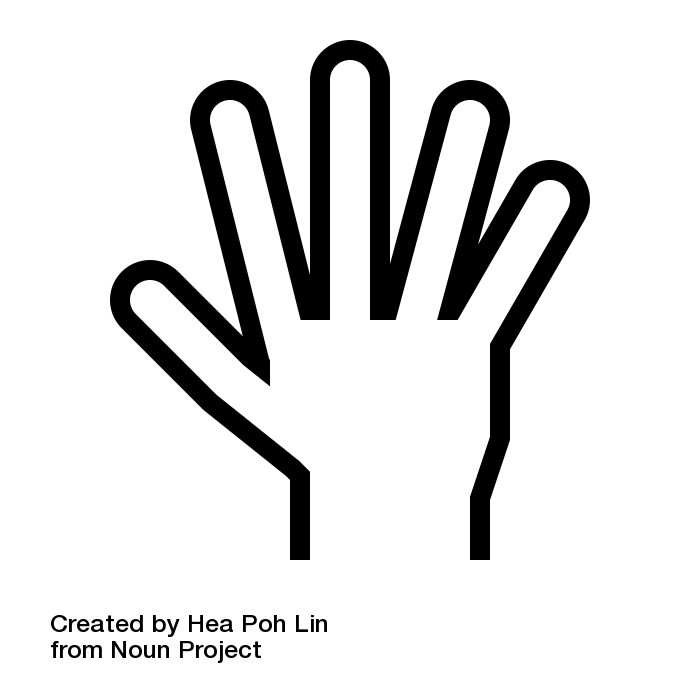
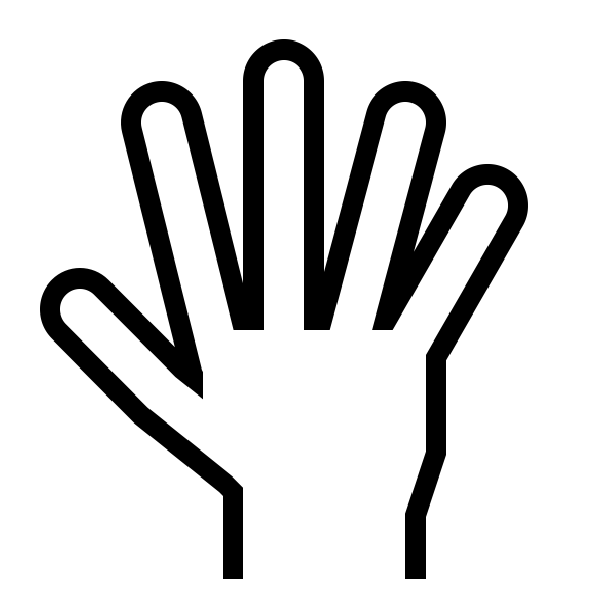
Removed watermarks from images

Changed region(s): [[0.06, 0.06, 0.9, 0.99]]

diff --git a/fingers.css b/fingers.css
@@ -1,7 +1,6 @@
 
 body {
-	background-color: teal;
-	background: radial-gradient(lightblue 0%, teal 90%);
+	background: radial-gradient(#FFF176, #F57F17);
 	max-height: 100vh;
 }
 
@@ -9,34 +8,35 @@ body {
 	width: 700px;
 	margin: 150px auto;
 	position: relative;
-	height: 600px;
+	height: 465px;
 	background-color: #eee;
-	padding: 10px 40px;
-	border-radius: 10px;
+	border-radius: 0px;
+	    box-shadow: 0px 50px 30px -30px rgba(0, 0, 0, 0.3);
 }
 
 #input-wrapper {
 	width: 700px;
-	margin: 20px auto;
+	margin: 40px auto 20px auto;
 	position: absolute;
 	bottom: 10px;
 	text-align: center;
+	display: block;
 
 }
 
 #img-wrapper {
 	max-height: 200px;
 	min-height: 280px;
-	margin-bottom: 0px;
+	margin-bottom: 20px;
 	display: block;
 }
 
 #no-fingers, #one-finger, #two-fingers, #three-fingers, #four-fingers, #five-fingers {
 visibility: hidden;
-	max-height: 400px;
+	max-height: 200px;
 	position: absolute;
-	top: 30px;
-	left: calc(50% - 200px);
+	top: 100px;
+	left: calc(50% - 80px);
 	margin-top: 40px ;
 	margin-bottom: -50px;
 }
@@ -44,26 +44,26 @@ visibility: hidden;
 #img-placeholder
 {
 
-visibility: hidden;
-	max-height: 200px;
-	position: absolute;
-	top: 150px;
-	left: 100px;
+	height: 400px;
+	width: 400px;
+position: absolute;
+	top: 30px;
+	left: calc(50% - 200px);
 	margin-top: 40px ;
 	margin-bottom: -50px;
-	float: left;
+	display: block;
 }
 
 
 #yes, #no {
 display: none;
-	font-family: helvetica, arial, sans-serif;
-color: #222;
-font-size: 48px;
-	margin: 10px auto 50px auto;
+	font-family: 'roboto', helvetica, arial, sans-serif;
+color: #666;
+font-size: 18px;
+	margin: 25px auto 50px auto;
 	position: relative;
 	height: 40px;
-	font-weight: bold;
+	font-weight: normal;
 	height: 50px; 
 	text-align: center;
 }
@@ -72,40 +72,48 @@ font-size: 48px;
 
 display: block;
 color: #222;
-font-size: 48px;
+font-size: 18px;
 text-align: center;
 }
 
 #input-box {
 	
-	padding: 10px;
-	margin: 20px auto 50px auto;
-	width: 40px;
-	background-color: #fff;
-border: solid 2px teal;
-color: teal;
-font-size: 46px;
-text-align: center;
-border-radius: 5px;
+padding: 10px ;
+  border: 1px solid #999;
+  border-radius: 3px;
+  display: inline-block;
+  width: 40px;
+  margin-bottom: 20px;
+  margin-right: 20px;
+  box-sizing: border-box;
+  outline: none;
+  font-size: 16px;
+  text-align: center;
 
 }
 
 #guess {
 
-	font-size: 36px;
-	margin-left: 20px;
-	font-family: helvetica, arial, sans-serif;
-	padding: 15px;
-	background-color: #fff;
-	font-weight: bold;
-	border: solid 2px teal;
-	color: #222;
-	border-radius: 5px;
+padding: 10px 20px;
+  border-radius: 3px;
+  border: none;
+  background: #FF6F00;
+  color: white;
+  text-transform: uppercase;
+  letter-spacing: 1px;
+  display: inline-block;
+  cursor: pointer;
+  font-family: 'roboto', helvetica, sans-serif;
+}
+
+#guess:hover {
+
+	 background: #e66400;
 }
 
 .guess:focus {
 	
-	border: solid 2px pink;
+	  border-color: #FF6F00;
 
 }
 
@@ -113,17 +121,21 @@ border-radius: 5px;
 #input-box:focus {
 	
 	border: solid 2px #fff;
+	  border: 1px solid #F57F17;
+  border-radius: 3px;
 
 }
 
 
 .input-label {
 
-	font-family: helvetica, arial, sans-serif;
-	font-weight: bold;
-	padding: 10px;
-	color: #222;
-	font-size: 40px;
+	font-family: 'roboto', helvetica, arial, sans-serif;
+	font-weight: normal;
+	padding: 20px 0px;
+	color: #666;
+	font-size: 20px;
 	text-align: center;
+	width: 100%;
+	border-bottom: solid 1px #ccc;
 	display: inline-block;
 }

diff --git a/index.html b/index.html
@@ -10,9 +10,10 @@
         <link rel="apple-touch-icon" href="apple-touch-icon.png">
         <!-- Place favicon.ico in the root directory -->
 
+<link href="https://fonts.googleapis.com/css?family=Open+Sans:400,800|Roboto" rel="stylesheet">
         <link rel="stylesheet" href="css/normalize.css">
         <link rel="stylesheet" href="fingers.css">
-        <script src="js/vendor/modernizr-2.8.3.min.js"></script>
+        <script src="js/fullPage/fullPage.js-master/jquery.fullPage.min"></script>
     </head>
     <body>
         <!--[if lt IE 8]>
@@ -20,9 +21,10 @@
         <![endif]-->
 
    <div id="wrapper"> 
+   <label class="input-label">How many fingers am I holding up?</label>
    <span id="yes">That's right!</span>
    <span id="no">Nope!</span>
-  <img id="img-placeholder" src="Images/no-fingers.png"/>
+ <div id="img-placeholder"></div>
    <img id="no-fingers" src="Images/no-fingers.png"/>
    <img id="one-finger" src="Images/one-finger.png"/>
    <img id="two-fingers" src="Images/two-fingers.png"/>
@@ -30,7 +32,7 @@
         <img id="four-fingers" src="Images/four-fingers.png"/>
            <img id="five-fingers" src="Images/five-fingers.png"/>
 <div id="input-wrapper">
-<input type="text" id="input-box" maxlength="1"></input><button id="guess">Guess!</button><br><label class="input-label">How many fingers am I holding up?</label>
+<input type="text" id="input-box" maxlength="1"></input><button id="guess">Guess!</button><br>
 </div>
 </div>
 
